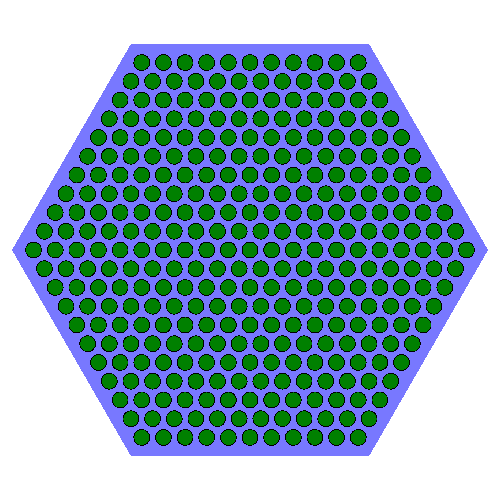
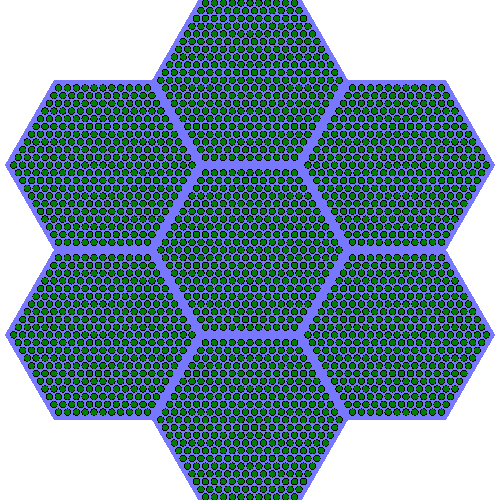
basic geometry enhansments (7 TVS)

diff --git a/models/utils/geometry.py b/models/utils/geometry.py
@@ -10,17 +10,41 @@ p = GeometryParams()
 # Surfaces
 fuel_surf = openmc.ZCylinder(r=p.tvel_fuel_radius)
 cladding_surf = openmc.ZCylinder(r=p.tvel_global_radius)
-water_surf = openmc.hexagonal_prism(edge_length=p.tvel_step, orientation=p.orientation, boundary_type='periodic')
+water_surf = openmc.hexagonal_prism(edge_length=p.tvel_step, orientation=p.orientation,boundary_type='transmission' )
 
 top_surf = openmc.ZPlane(z0=p.tvel_heigh / 2)
 bottom_surf = openmc.ZPlane(z0=-p.tvel_heigh / 2)
 
-hex_lat_surf = openmc.hexagonal_prism(edge_length=p.TVS_edge_lenght,orientation=p.orientation, boundary_type='vacuum')
+TVS_hex_lat_surf = openmc.hexagonal_prism(edge_length=p.TVS_edge_lenght, orientation=p.orientation, boundary_type='transmission')
 
+hex_lat_surf_1 = openmc.hexagonal_prism(edge_length=p.TVS_edge_lenght, orientation=p.orientation, boundary_type='vacuum',
+                                        origin=(0,p.TVS_edge_lenght*sqrt(3)))
+hex_lat_surf_4 = openmc.hexagonal_prism(edge_length=p.TVS_edge_lenght, orientation=p.orientation,boundary_type='vacuum',
+                                        origin=(0,-p.TVS_edge_lenght*sqrt(3)))
+
+hex_lat_surf_2 = openmc.hexagonal_prism(edge_length=p.TVS_edge_lenght, orientation=p.orientation,boundary_type='vacuum',
+                                        origin=(p.TVS_edge_lenght*1.5,p.TVS_edge_lenght*sqrt(3)/2))
+hex_lat_surf_3 = openmc.hexagonal_prism(edge_length=p.TVS_edge_lenght, orientation=p.orientation,boundary_type='vacuum',
+                                        origin=(p.TVS_edge_lenght*1.5,-p.TVS_edge_lenght*sqrt(3)/2))
+
+hex_lat_surf_5 = openmc.hexagonal_prism(edge_length=p.TVS_edge_lenght, orientation=p.orientation,boundary_type='vacuum',
+                                        origin=(-p.TVS_edge_lenght*1.5,-p.TVS_edge_lenght*sqrt(3)/2))
+hex_lat_surf_6 = openmc.hexagonal_prism(edge_length=p.TVS_edge_lenght, orientation=p.orientation,boundary_type='vacuum',
+                                        origin=(-p.TVS_edge_lenght*1.5,p.TVS_edge_lenght*sqrt(3)/2))
+
+hex_lat_surf = TVS_hex_lat_surf | hex_lat_surf_1 | hex_lat_surf_2 | hex_lat_surf_3 | hex_lat_surf_4 | hex_lat_surf_5 | hex_lat_surf_6
+
+hex_lat_surf.boundary_type = 'vacuum'
 top_surf.boundary_type = 'vacuum'
 bottom_surf.boundary_type = 'vacuum'
 
 # Geometry
+
+# 1 TVS container
+TVS_container_cell = openmc.Cell(fill=water_mat, region=TVS_hex_lat_surf & -top_surf & +bottom_surf)
+TVS_container_universe = openmc.Universe(cells=[TVS_container_cell])
+
+# 7 TVS container
 container_cell = openmc.Cell(fill=water_mat, region=hex_lat_surf & -top_surf & +bottom_surf)
 container_universe = openmc.Universe(cells=[container_cell])
 
@@ -31,20 +55,35 @@ water_cell = openmc.Cell(fill=water_mat, region=+cladding_surf & water_surf & +b
 
 sub_universe = openmc.Universe(cells=[fuel_cell, cladding_cell, water_cell])
 
-# 2. lattice
+# 2. 1 TVS lattice
+TVS_hex_lat = openmc.HexLattice()
+TVS_hex_lat.orientation=p.orientation
+TVS_hex_lat.center = (0,0)
+TVS_hex_lat.pitch = [p.tvel_step]
 
-
-hex_lat = openmc.HexLattice()
-hex_lat.orientation=p.orientation
-hex_lat.center = (0,0)
-hex_lat.pitch = [p.tvel_step]
-
-lat_center = [sub_universe]
-lat_rings = []
+TVS_lat_center = [sub_universe]
+TVS_lat_rings = []
 for i in range(1, p.n_tvel_rows):
-    lat_rings.append([sub_universe]*6*i)
-lat_rings.reverse()
-hex_lat.universes = [*lat_rings, lat_center]
+    TVS_lat_rings.append([sub_universe]*6*i)
+TVS_lat_rings.reverse()
+TVS_hex_lat.universes = [*TVS_lat_rings, TVS_lat_center]
+TVS_hex_lat.outer = TVS_container_universe
+
+TVS_lat_cell = openmc.Cell(region=TVS_hex_lat_surf, fill=TVS_hex_lat)
+
+TVS_universe = openmc.Universe(cells=[TVS_lat_cell])
+# universe = openmc.Universe(cells=[container_cell])
+
+# 7 TVS lattice
+
+hex_lat = openmc.HexLattice(lattice_id=228)
+hex_lat.orientation='y'
+hex_lat.center = (0,0)
+hex_lat.pitch = [p.TVS_edge_lenght*sqrt(3)]
+
+lat_center = [TVS_universe]
+lat_ring = [TVS_universe]*6
+hex_lat.universes = [lat_ring, lat_center]
 hex_lat.outer = container_universe
 
 lat_cell = openmc.Cell(region=hex_lat_surf, fill=hex_lat)

diff --git a/main.py b/main.py
@@ -1,3 +1,5 @@
+from math import sqrt
+
 import openmc
 
 
@@ -23,7 +25,7 @@ if __name__ == "__main__":
     # Plotting by universe...
     colors = {water_mat: (120, 120, 255), cladding_mat: 'black', fuel_mat: 'green'}
     color_data = dict(color_by='material', colors=colors)
-    width = (params.TVS_edge_lenght*2.1, params.TVS_edge_lenght*2.1)
+    width = (params.TVS_edge_lenght*5.1, params.TVS_edge_lenght*5.1)
 
     fig, ax = plt.subplots(2, 2)
 
@@ -55,7 +57,7 @@ if __name__ == "__main__":
     setting.inactive = 10
     setting.particles = 5000
 
-    uniform_dist = openmc.stats.Box([-10, -10, -3500 / 2], [10, 10, 3500 / 2], only_fissionable=True)
+    uniform_dist = openmc.stats.Box([-100, -100, -350 / 2], [100, 100, 350 / 2], only_fissionable=True)
     setting.source = openmc.source.Source(space=uniform_dist)
 
     # Tallies

diff --git a/models/utils/material.py b/models/utils/material.py
@@ -5,9 +5,9 @@ from models.utils.params import MaterialParams
 
 # Materials
 fuel_mat = openmc.Material(name='Uranium Oxide')
-fuel_mat.add_element('U',1, enrichment=MaterialParams.U235_enrichment_low)
+fuel_mat.add_element('U',1, enrichment=MaterialParams.U235_enrichment_high)
 fuel_mat.add_element('O', 2)
-fuel_mat.set_density('g/cm3', 8.3)
+fuel_mat.set_density('g/cm3', 10.5)
 
 water_mat = nmm.Material.from_library(name='Water, Liquid').openmc_material
 cladding_mat = nmm.Material.from_library(name='Zircaloy-2').openmc_material

diff --git a/models/utils/params.py b/models/utils/params.py
@@ -1,16 +1,17 @@
 from math import sqrt
 class GeometryParams:
-    tvel_fuel_radius = 0.9
-    tvel_global_radius = 1.0
+    tvel_fuel_radius = 0.72
+    tvel_global_radius = 0.91
     tvel_heigh = 350.0
 
     orientation = 'x'
 
     n_tvel_rows = 11
-    tvel_step = 1.5*sqrt(3)
+    tvel_step = 1.275*sqrt(3)
 
     def __init__(self):
         self.TVS_edge_lenght =self.tvel_step*(self.n_tvel_rows)
+        # print(self.TVS_edge_lenght)
 
 class MaterialParams:
     U235_enrichment_high = 3.6
